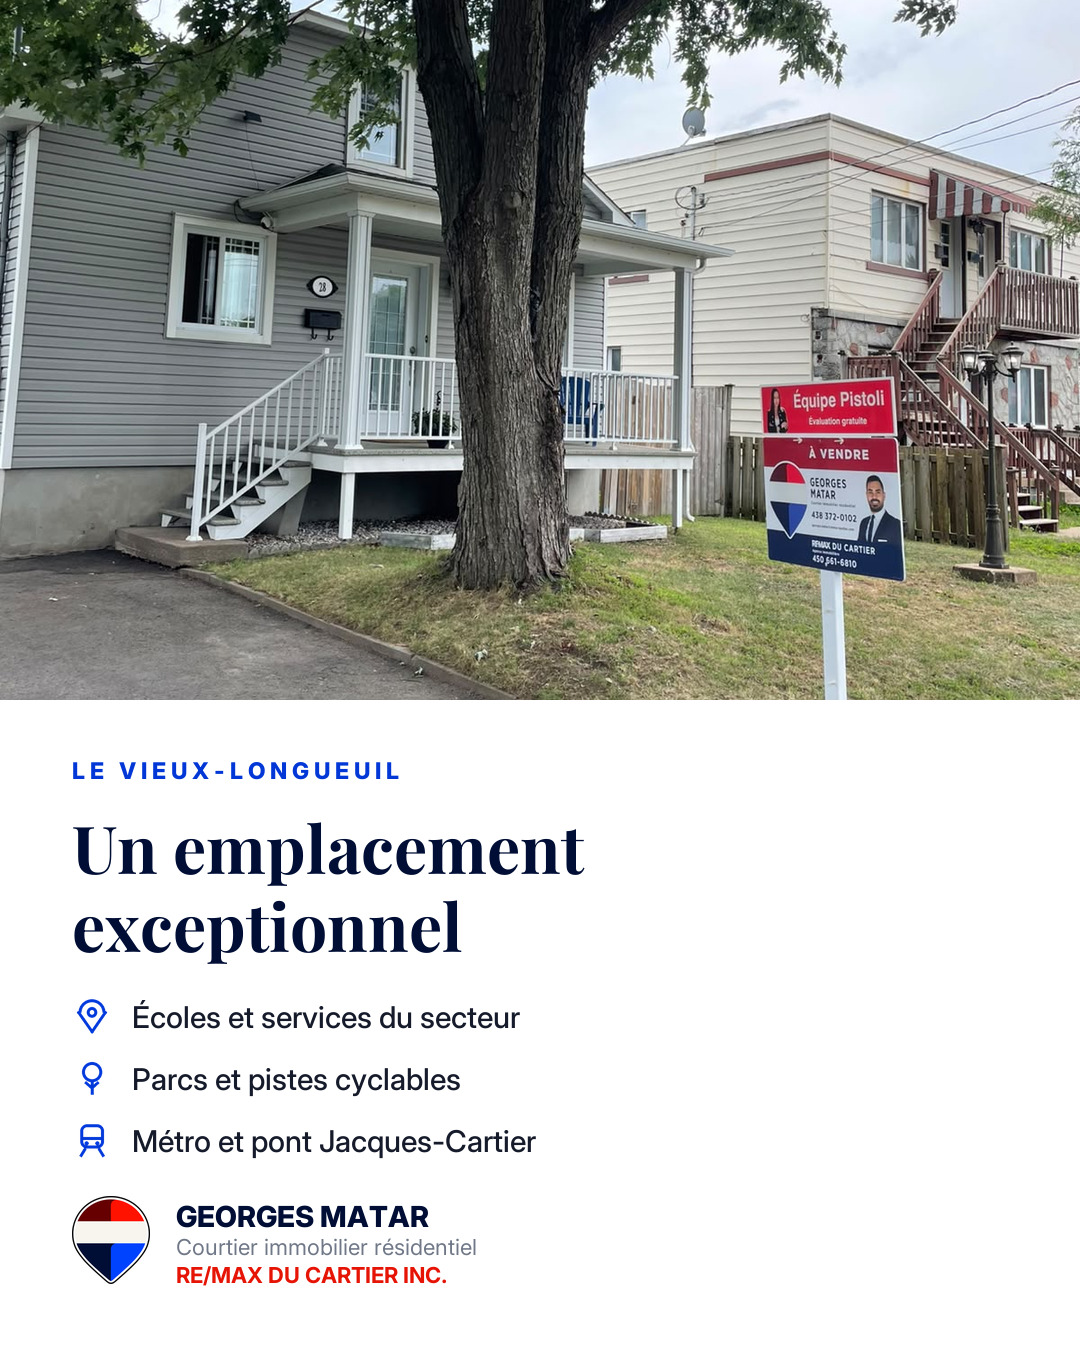
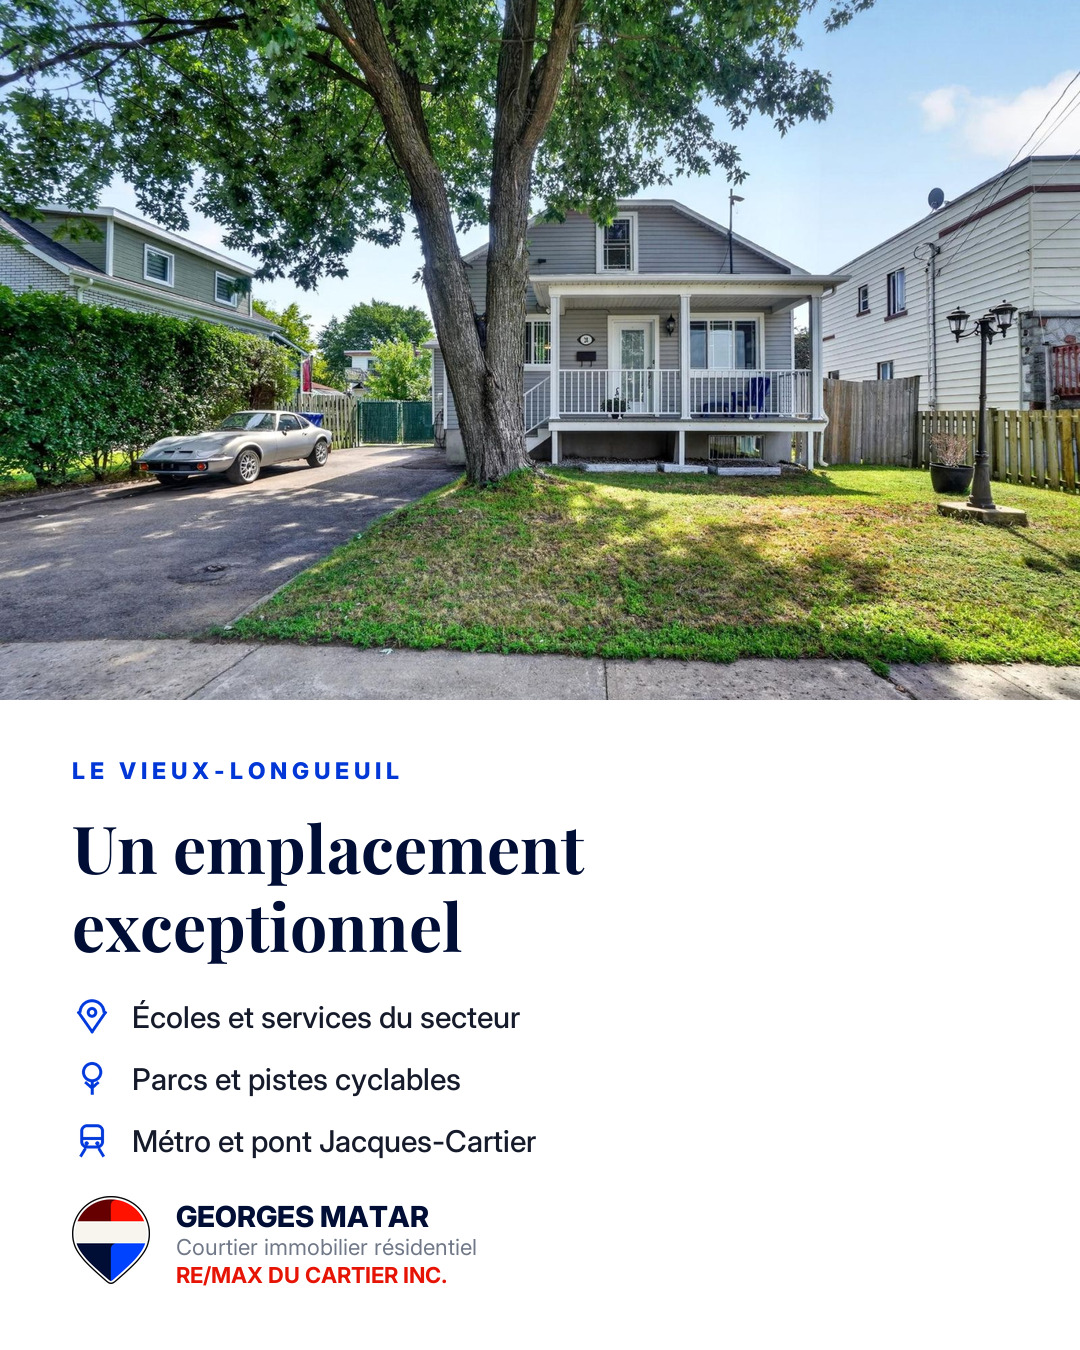
fix: retire la photo de pancarte du carrousel
La slide 6 revient a la photo de rue professionnelle. Le carrousel ne contient
plus que des photos Centris. La mention Equipe Pistoli reste sur la couverture
et sur la slide de contact.

diff --git a/carrousel-instagram/generer-carrousel.py b/carrousel-instagram/generer-carrousel.py
@@ -401,11 +401,10 @@ def slide5():
 
 # ================================================================ SLIDE 6
 def slide6():
-    """Photo de la pancarte sur le terrain: montre l Equipe Pistoli en
-    contexte et sert de photo de rue pour la section emplacement."""
+    """Photo de rue professionnelle. Les photos de la pancarte prise au
+    telephone restent dans sources/ mais ne vont pas dans le carrousel."""
     c = base()
-    photo(c, "pancarte-02.jpg", (0, 0, W, 700), r=0, shad=False, fy=0.57,
-          folder=SOURCES)
+    photo(c, "04.jpg", (0, 0, W, 700), r=0, shad=False)
     d = ImageDraw.Draw(c)
 
     y = 756

diff --git a/carrousel-instagram/README.md b/carrousel-instagram/README.md
@@ -15,18 +15,20 @@ Publier dans cet ordre exact. Instagram conserve l ordre d ajout des fichiers.
 | 3 | `03-cuisine.jpg` | Cuisine, 3 points |
 | 4 | `04-points-forts.jpg` | Cour, 4 travaux deja realises |
 | 5 | `05-details.jpg` | Chambre, salle de bain, terrasse |
-| 6 | `06-emplacement.jpg` | Pancarte Equipe Pistoli sur le terrain, 3 elements de proximite |
+| 6 | `06-emplacement.jpg` | Rue, 3 elements de proximite |
 | 7 | `07-coup-de-coeur.jpg` | Salle a manger, Imaginez-vous vivre ici |
 | 8 | `08-contact.jpg` | Georges Matar et Rovena Pistoli, coordonnees, appel a l action |
 
 ### Equipe Pistoli
 
 L inscription vient d un lead obtenu par Rovena Pistoli. Elle est mentionnee
-a trois endroits:
+a deux endroits:
 
 - slide 1: pastille EQUIPE PISTOLI a cote de A VENDRE
-- slide 6: photo de la pancarte installee sur le terrain, ou son nom parait
 - slide 8: sa photo, son nom et son titre a cote de ceux de Georges
+
+Les photos de la pancarte prises au telephone ne vont PAS dans le carrousel:
+seules les photos professionnelles de Centris sont utilisees.
 
 Titre exact tire de sa fiche RE/MAX DU CARTIER: Courtier immobilier
 residentiel et commercial. Entreprise: Rovena Pistoli Immobilier Inc.
@@ -86,11 +88,14 @@ Centris 26368231
 
 `sources/` contient les fichiers qui ne viennent pas de Centris:
 
-| Fichier | Origine |
-|---------|---------|
-| `pancarte-01.jpg` | Photo du terrain, pancarte vue de pres. Non utilisee, disponible en remplacement |
-| `pancarte-02.jpg` | Photo du terrain, cadrage large. Utilisee sur la slide 6 |
-| `rovena-pistoli.jpg` | Portrait officiel, telecharge de sa fiche RE/MAX DU CARTIER |
+| Fichier | Origine | Utilise |
+|---------|---------|---------|
+| `pancarte-01.jpg` | Photo du terrain, pancarte vue de pres | Non |
+| `pancarte-02.jpg` | Photo du terrain, cadrage large | Non |
+| `rovena-pistoli.jpg` | Portrait officiel, telecharge de sa fiche RE/MAX DU CARTIER | Slide 8 |
+
+Les deux photos de pancarte sont conservees pour les publications simples
+(story, publication unique le jour de l installation), pas pour le carrousel.
 
 ## Regenerer
 
